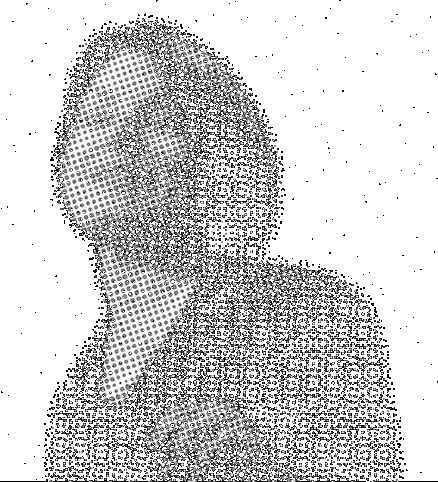
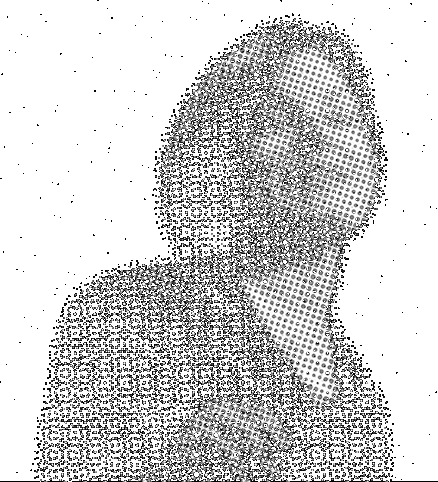
Add landing styling

diff --git a/index.html b/index.html
@@ -24,11 +24,11 @@
             
             <div class="section header">
                 
-                <div class="landing-img wow fadeIn" style="-webkit-transform: scaleX(-1); transform: scaleX(-1);top:10%;left:0;width:35%;height:35%;background-image: url(assets/images/amy-klobuchar.png);"></div>
+                <div class="landing-img wow slideInDown" style="top:10%;left:130px;width:25%;height:35%;background-image: url(assets/images/amy-klobuchar.png);"></div>
                 
-                <div class="landing-img landing-yang wow fadeInDown" style="height:300px;background-position: center bottom; width:30%;left:10%;bottom:10%;background-image:url(assets/images/andrew_yang.png);z-index:-91;" ></div>
+                <div class="landing-img landing-yang wow slideInUp" style="height:300px;background-position: center bottom; width:30%;left:10%;bottom:10%;background-image:url(assets/images/andrew_yang.png);" ></div>
                 
-                <div class="landing-img wow fadeInDown" style="height:300px;background-position: center bottom; width:50%;right:0;bottom:0px;background-image:url(assets/images/cory_booker.png);" ></div>
+                <div class="landing-img wow slideInDown" style="height:300px;background-position: center bottom; width:50%;right:0;bottom:0px;background-image:url(assets/images/cory_booker.png);" ></div>
                     
                 <div class="landing">
                 

diff --git a/css/styling.css b/css/styling.css
@@ -31,6 +31,8 @@ body{
     flex-wrap:wrap;
     vertical-align: center;
     align-items:center;
+    background-image:url(../assets/images/landing-bg.png);
+    background-size:cover;
 }
 
 img{
@@ -46,6 +48,7 @@ img{
 
 
 .candidate-sec{
+    padding:50px 0 50px 0;
     max-width:700px;
     margin:auto;
     min-height:450px;
@@ -131,7 +134,7 @@ h2{margin:0;
 }
 
 .landing-img{
-    position:absolute; z-index:-99;
+    position:absolute; 
     background-size:contain;
     background-repeat:no-repeat;
 }
